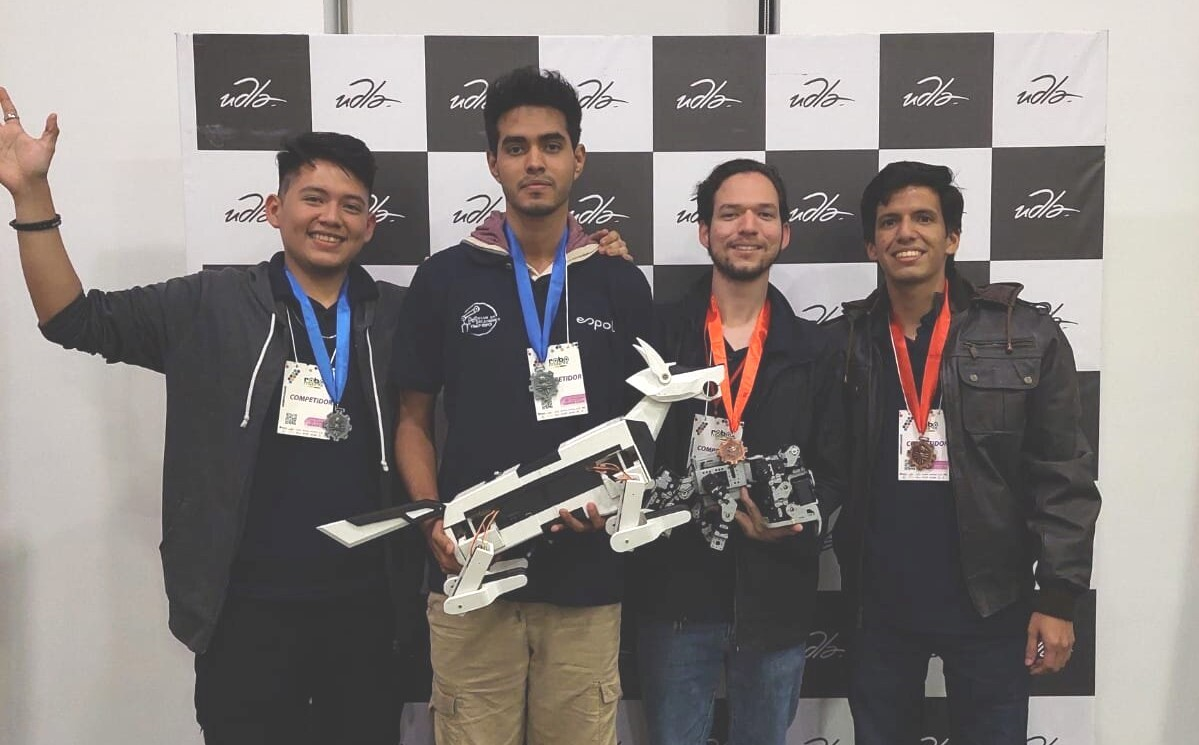
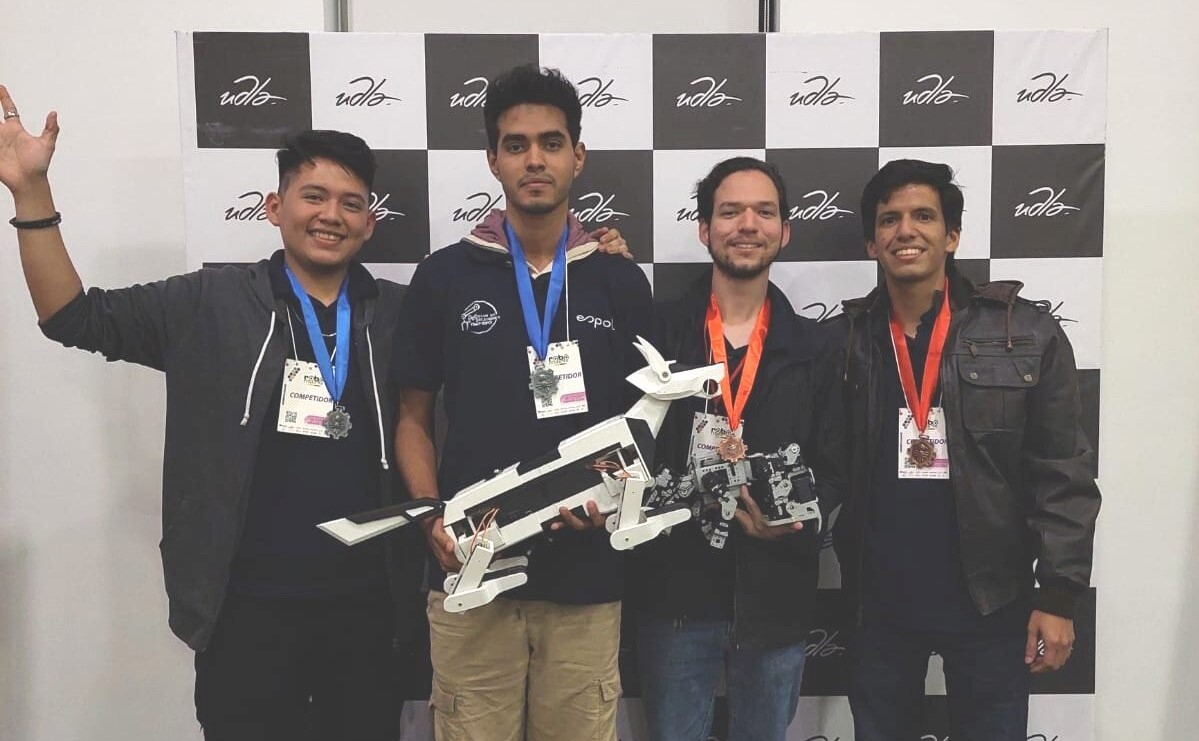
change

diff --git a/_includes/header.html b/_includes/header.html
@@ -90,7 +90,7 @@
                     </div>
                 </div>
                 <div class="item">
-                    <img src="img/carousel/robamatrixEcuador2023(4).jpg" alt="Chicago">
+                    <img src="img/carousel/robamatrixEcuador2023.jpg" alt="Chicago">
                     <div class="carousel-caption">
                         <h2>2023 I</h2>
                         <p>CHAMPIONS IN ROBOMATRIX-ECUADOR!</p>
